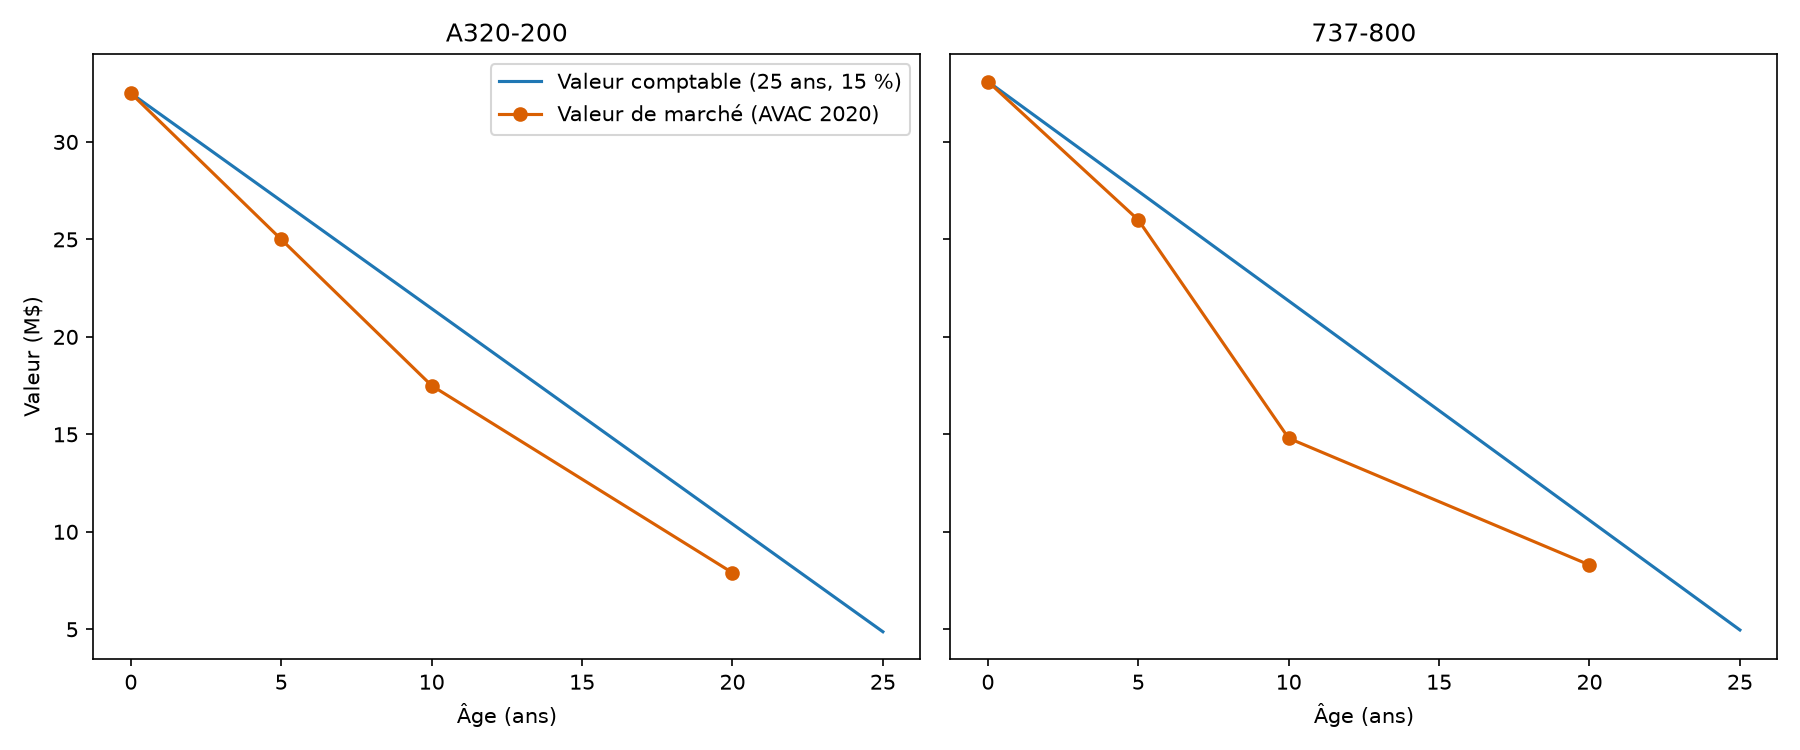
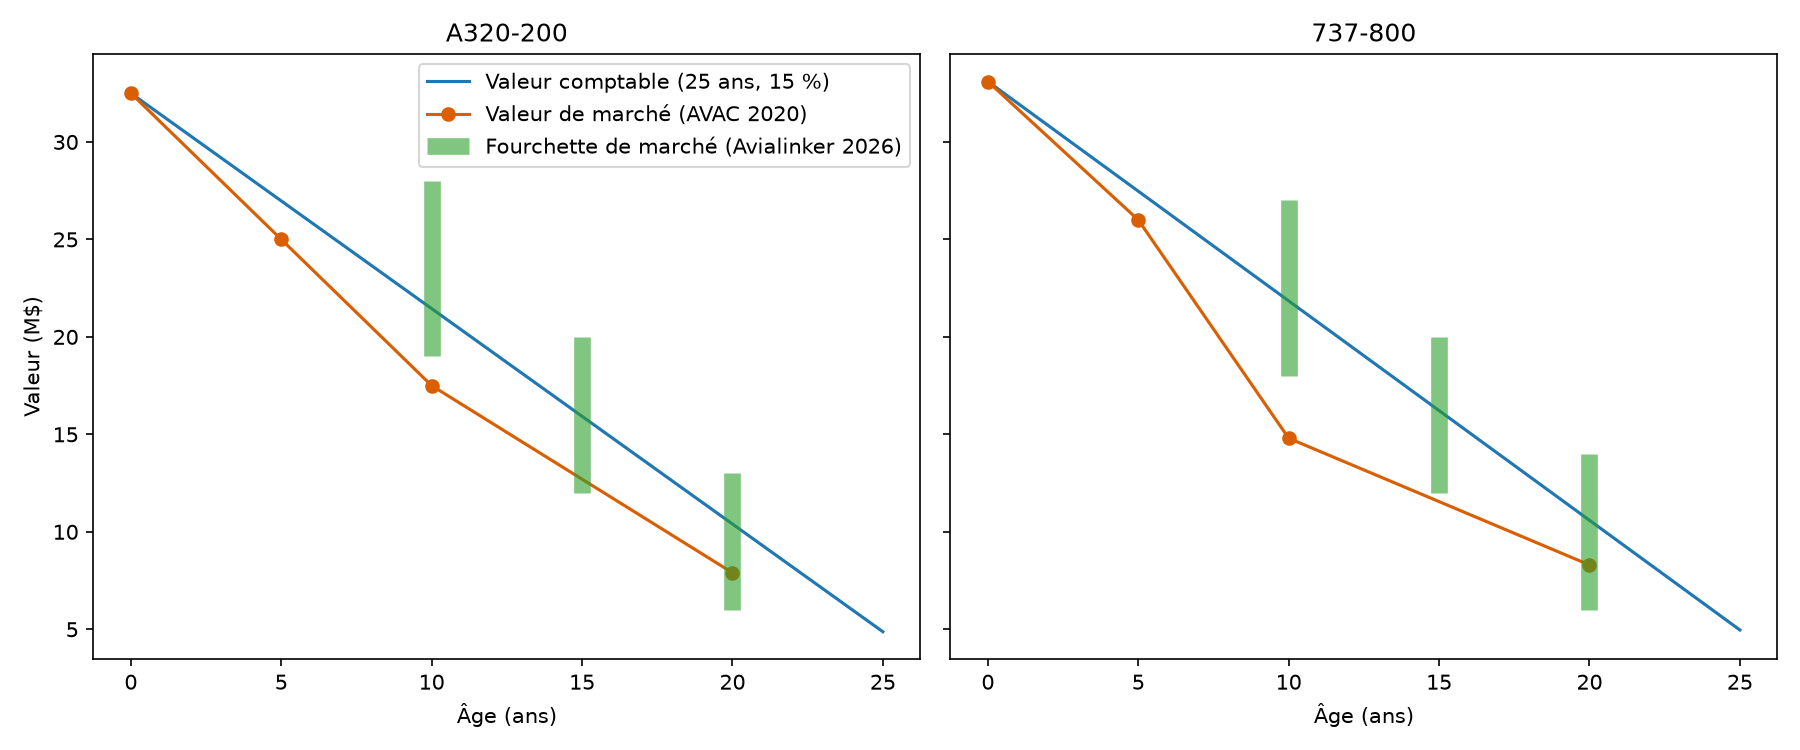
Ajout des valeurs 2026 au graphique et documentation de la methode et des limites

diff --git a/src/amortissement.py b/src/amortissement.py
@@ -23,13 +23,17 @@ import matplotlib.pyplot as plt
 
 DOSSIER_SORTIE = DOSSIER_PROJET / "output"
 ages = list(range(0, 26))
-
+marche26 = pd.read_csv(DOSSIER_DATA / "valeurs_marche_2026.csv")
+marche26["modele"] = marche26["modele"].replace({"A320ceo": "A320-200"})
 fig, axes = plt.subplots(1, 2, figsize=(12, 5), sharey=True)
 for axe, modele in zip(axes, PRIX_NEUF_MUSD):
     prix = PRIX_NEUF_MUSD[modele]
     axe.plot(ages, [valeur_comptable(prix, a) for a in ages], color="#1f77b4", label="Valeur comptable (25 ans, 15 %)")
     points = marche[marche["modele"] == modele]
     axe.plot(points["age_ans"], points["valeur_musd"], "o-", color="#d95f02", label="Valeur de marché (AVAC 2020)")
+    pts26 = marche26[marche26["modele"] == modele]
+    axe.vlines(pts26["age_ans"], pts26["valeur_min_musd"], pts26["valeur_max_musd"], color="#2ca02c", linewidth=8,
+               alpha=0.6, label="Fourchette de marché (Avialinker 2026)")
     axe.set_title(modele)
     axe.set_xlabel("Âge (ans)")
 axes[0].set_ylabel("Valeur (M$)")

diff --git a/README.md b/README.md
@@ -1,3 +1,26 @@
 # Valeur et amortissement des avions
 
-Projet Python d'estimation de la valeur et de l'amortissement d'un avion commercial. Deuxième projet d'un portefeuille orienté aviation et leasing d'avions.
+Projet Python d'estimation de la valeur et de l'amortissement d'un avion commercial. Deuxième projet d'un portefeuille orienté aviation et leasing d'avions.a
+
+## Méthode
+
+Trois approches sont comparées pour l'A320-200 et le 737-800 :
+
+- Valeur comptable : amortissement linéaire sur 25 ans jusqu'à une valeur résiduelle de 15 % du prix neuf (règle appliquée aux avions de ligne par un bailleur coté, document déposé auprès de la SEC pour l'exercice clos le 28 février 2025).
+- Valeur de marché 2020 : estimations de l'évaluateur AVAC, publiées par Aviation Strategy (octobre 2020), à 0, 5, 10 et 20 ans.
+- Valeur de marché 2026 : fourchettes indicatives d'Avialinker (3e trimestre 2026).
+
+## Résultats
+
+La valeur de marché de 2020 est inférieure à la valeur comptable à tous les âges : pour l'A320-200, de 7 % à 5 ans, de 18 % à 10 ans et de 24 % à 20 ans ; pour le 737-800, de 5 %, 32 % et 22 %. Les fourchettes de 2026 sont plus élevées que les valeurs de 2020 à 10 ans, et la valeur comptable y tombe à l'intérieur.
+
+Graphique : output/comptable_vs_marche.png
+Script : src/amortissement.py
+
+## Limites
+
+- Les valeurs AVAC sont des estimations d'évaluateur saisies à la main depuis un tableau publié, pas des prix de transaction.
+- Avialinker précise que ses valeurs sont orientatives, qu'elles ne constituent pas une évaluation ISTAT et qu'elles ne sont pas destinées au financement. Ses sources ne sont pas détaillées.
+- Le prix neuf utilisé est la valeur « neuf » d'AVAC 2020, pas un prix catalogue.
+- Les deux sources sont de nature différente : la comparaison entre 2020 et 2026 reste indicative.
+- Seuls deux modèles sont couverts.
